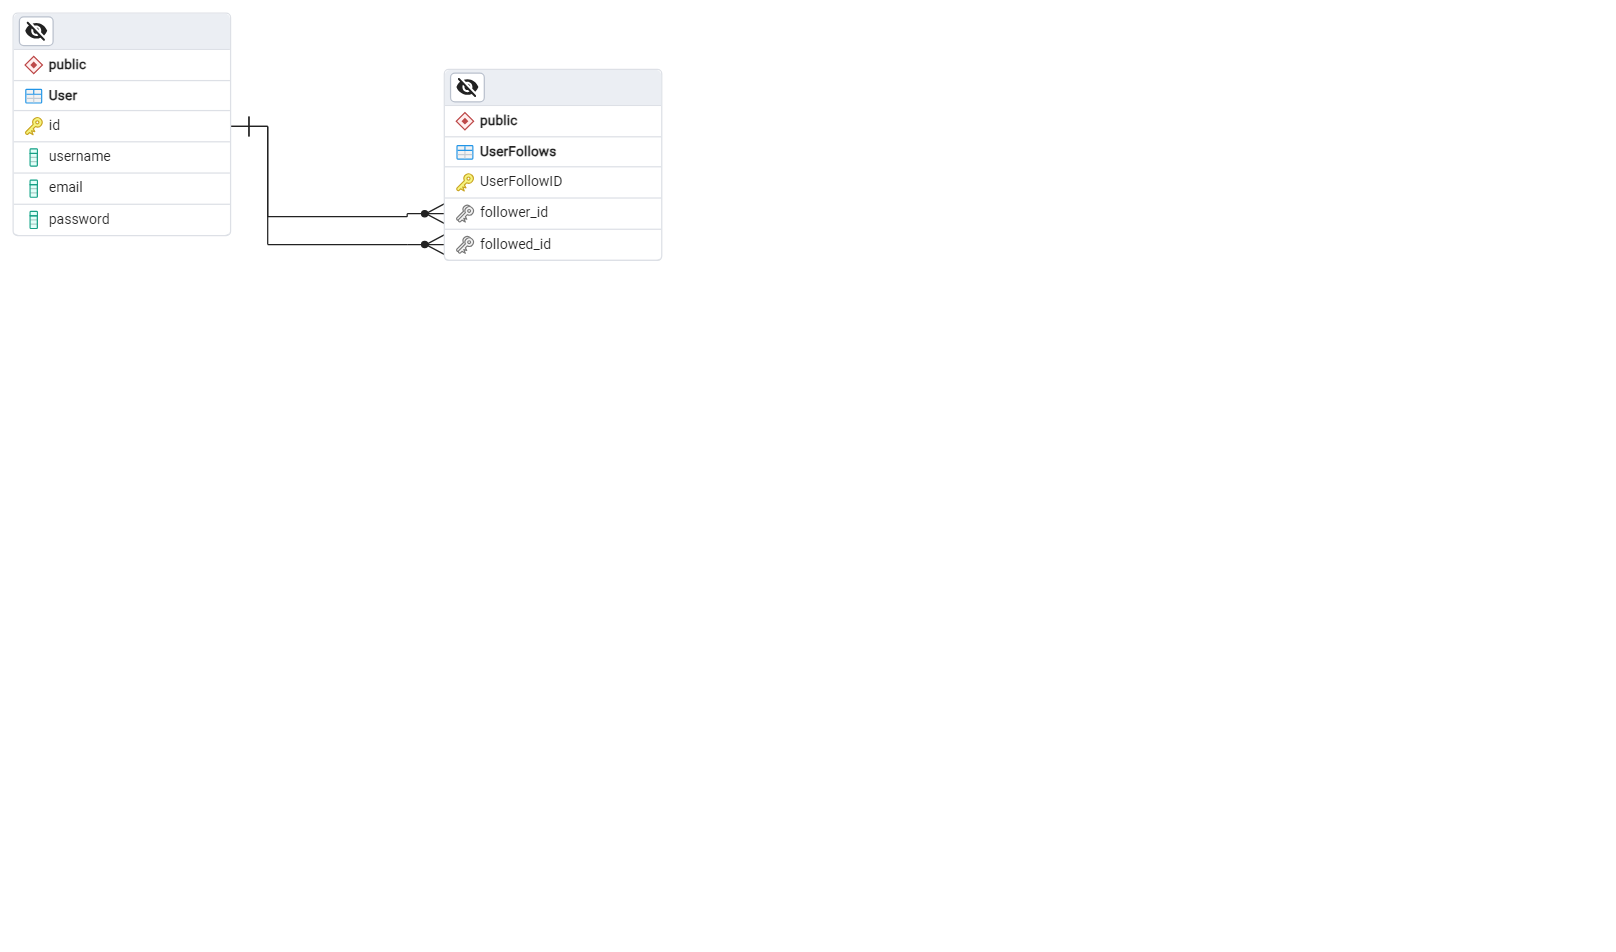
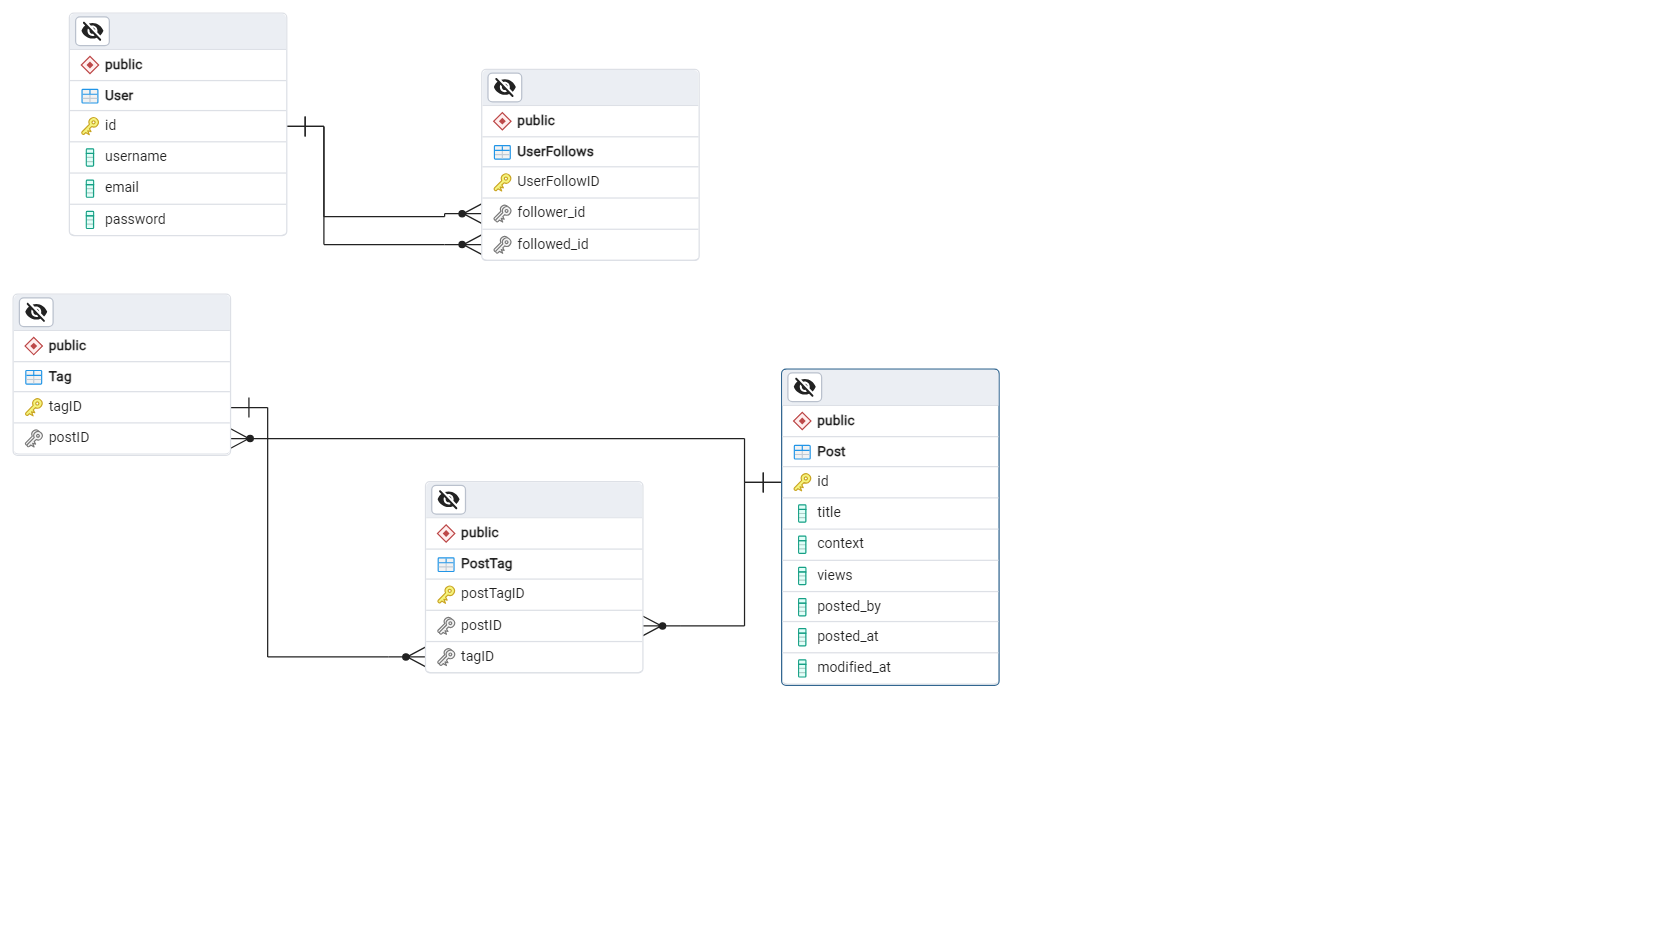
updated postgre er diagram, need to fix error which occurs when adding tags to the form data to save it

diff --git a/formy/post/templates/post/new.html b/formy/post/templates/post/new.html
@@ -7,24 +7,23 @@
 <div class="px-4 py-6 w-full h-full text-stone-800">
     <h1 class="font-bold text-3xl">New Post</h1>
 
-    <form method="POST" action="">
+    <form id="form" method="POST" action="">
         {% csrf_token %}
 
         {{ form.as_p }}
 
-        <div class="">
-            <span></span>
-            <input type="text">
-            <!-- 
-                You might need to use jQuery to 
-                make custom tag input
-
-                hint: take stackoverflow input as example
-             -->
+        <div class="w-full flex flex-wrap items-center px-2 mb-4 border border-solid border-2 border-gray-100 outline-green-400 text-lg rounded-md">
+            <span id="tagContainer" class="flex flex-wrap items-center gap-2"></span>
+            <input type="text" id="tagInput" class="grow p-2 outline-none" />
+            <!-- <input name="tags" id="hiddenfield" class="hidden"/> -->
         </div>
 
-        <button type="submit" class="w-full p-2 font-bold text-lg rounded-md bg-green-500 hover:bg-green-600 text-white">Create</button>
+        <button type="submit" id="submutBtn" class="w-full p-2 font-bold text-lg rounded-md bg-green-500 hover:bg-green-600 text-white">Create</button>
     </form>
 </div>
+{% endblock %}
 
+{% block script %}
+    {% load static %}
+    <script src="{% static 'post/new_post.js' %}"></script>
 {% endblock %}

diff --git a/formy/static/post/new_post.js b/formy/static/post/new_post.js
@@ -1,0 +1,24 @@
+let tagContainer = $("#tagContainer");
+let tags = [];
+
+$(function() {
+    $('#tagInput').on('keydown', function(e) {
+        if(e.keyCode == 32 && !e.target.value.trim().includes('\\') && e.target.value.trim().length > 0) {
+            let value = e.target.value.trim();
+            let newTag = $(`<span id="tag" class="py-1 px-2 flex items-center space-x-2 bg-green-200">
+                                <span id="value">${value}</span>
+                                <div id="removeTag" class="w-4 h-4 rounded-sm flex justify-center items-center bg-green-400 text-sm "><i class="fa-solid fa-xmark"></i></div>
+                            </span>`);
+            tagContainer.append(newTag);
+            tags.push(value);
+            $('#hiddenfield').val(JSON.stringify({tags}));
+            e.target.value = "";
+        }
+    })
+})
+
+$(document).on('click', '#removeTag', function() {
+    let tagValue = $(this).closest('#tag').find('#value').text();
+    tags = tags.filter(tag => tag != tagValue);
+    $(this).closest('#tag').remove();
+})

diff --git a/formy/core/templates/core/base.html b/formy/core/templates/core/base.html
@@ -4,6 +4,7 @@
     <meta charset="UTF-8">
     <meta name="viewport" content="width=device-width, initial-scale=1.0">
     <title>{% block title %}{% endblock %} | Formy</title>
+    <script src="https://ajax.googleapis.com/ajax/libs/jquery/3.7.1/jquery.min.js"></script>
     <link rel="stylesheet" href="https://cdnjs.cloudflare.com/ajax/libs/font-awesome/6.5.1/css/all.min.css" integrity="sha512-DTOQO9RWCH3ppGqcWaEA1BIZOC6xxalwEsw9c2QQeAIftl+Vegovlnee1c9QX4TctnWMn13TZye+giMm8e2LwA==" crossorigin="anonymous" referrerpolicy="no-referrer" />
     <script src="https://cdn.tailwindcss.com"></script>
 </head>
@@ -49,5 +50,7 @@
             </ul>
         </div>
     </footer>
+
+    {% block script %}{% endblock %}
 </body>
 </html>

diff --git a/formy/post/models.py b/formy/post/models.py
@@ -1,7 +1,7 @@
 from django.db import models
 
 class Tag(models.Model):
-    name = models.CharField(max_length=255)
+    name = models.CharField(max_length=100, unique=True)
     posts = models.ManyToManyField('Post', symmetrical=False, blank=True)
 
     class Meta:
@@ -17,7 +17,8 @@ class Post(models.Model):
     posted_by = models.ForeignKey('accounts.CustomUser', on_delete=models.CASCADE)
     posted_at = models.DateTimeField(auto_now_add=True)
     modified_at = models.DateTimeField(auto_now=True)
-    tags = models.ManyToManyField(Tag, symmetrical=False)
+    # using comma separated list of tags might a better approach
+    tags = models.ManyToManyField(Tag, symmetrical=False, blank=True)
 
     class Meta:
         ordering = ('posted_at', 'title', 'views',)

diff --git a/formy/post/forms.py b/formy/post/forms.py
@@ -6,9 +6,6 @@ class NewPostForm(forms.ModelForm):
     class Meta:
         model = Post
         fields = ('title', 'context',)
-        # labels = {
-        #     'title': '',
-        # }
 
     INPUT_CLASS = 'w-full mb-4 p-2 border border-solid border-2 border-gray-100 outline-green-400 text-lg rounded-md'
 
@@ -19,5 +16,9 @@ class NewPostForm(forms.ModelForm):
     context = forms.CharField(widget=forms.Textarea(attrs={
         'class': INPUT_CLASS,
         'placeholder': 'Post Context'
+    }))
+    tags = forms.CharField(widget=forms.TextInput(attrs={
+        'class': 'hidden',
+        'id': 'hiddenfield'
     }))
 

diff --git a/formy/post/views.py b/formy/post/views.py
@@ -1,11 +1,21 @@
 from django.shortcuts import render, redirect
+import json
 
 from .forms import NewPostForm
+from .models import Tag
 
 def new(request):
     if request.method == 'POST':
         form = NewPostForm(request.POST)
         if form.is_valid():
+            form.posted_by = request.user
+            tags = json.loads(request.POST['tags'])['tags']
+            tagsModels = []
+            for tag in tags:
+                tag = Tag.objects.get_or_create(name=tag)
+                tagsModels.append(tag)
+
+            form.tags = tagsModels
             form.save()
             return redirect('/')
     else:
